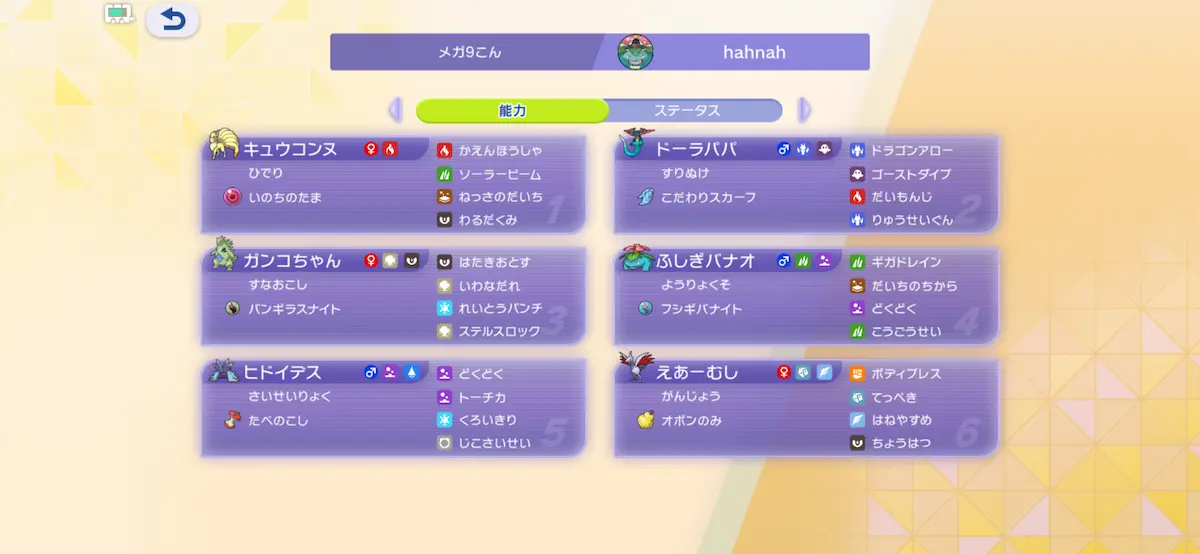
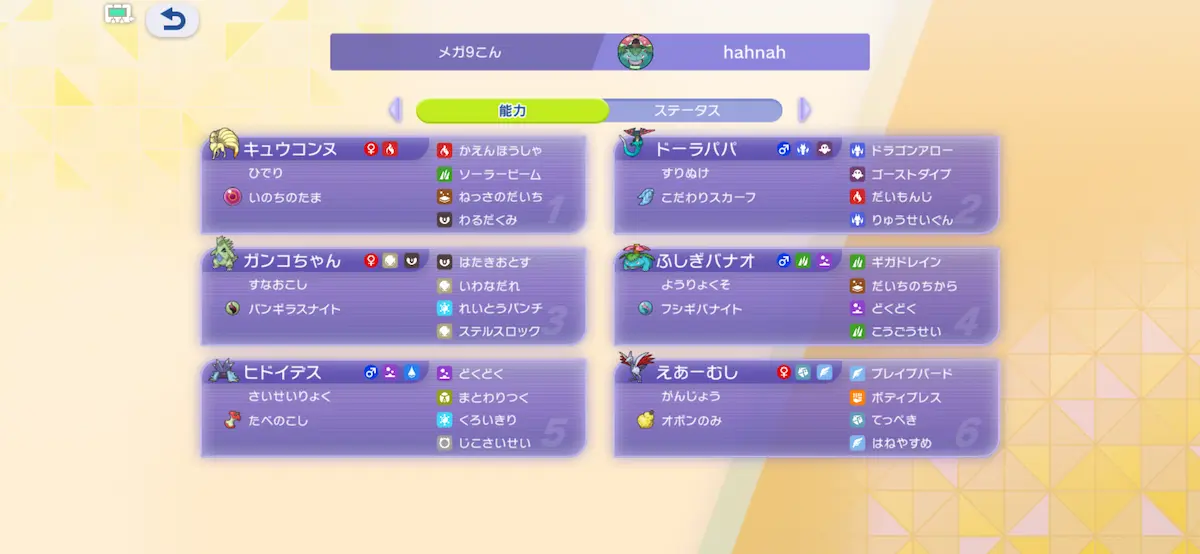
cont(life): Edit 2026-pokemon-ninetailes-party-mc

Changed region(s): [[0.7092, 0.6444, 0.8017, 0.8285], [0.3392, 0.7058, 0.4317, 0.7365]]

diff --git a/content/life-blog/2026-pokemon-ninetailes-party-mc.md b/content/life-blog/2026-pokemon-ninetailes-party-mc.md
@@ -3,7 +3,7 @@ title: "キュウコン+受けループ構築2〜ポケモンチャンピオン[
 image: "/images/life-blog/2026-pokemon-ninetailes-party-mc/party-info-1.webp"
 description: "自分の好きなポケモンと戦術で、勝てるように頑張る。キュウコンと受けループ戦術で勝つためのパーティ構築をしました。レギュレーションM-C(シーズンM-6, M-7, M-8)で使います。"
 published: "2026-09-11"
-updated: "2026-09-13"
+updated: "2026-09-23"
 category: "life"
 tags: ["game", "pokemon", "pokemon-champions"]
 ---
@@ -56,37 +56,6 @@ _(上記画像はhttps://pokemon.gameinfo.ioより)_
 
 それぞれを詳しく紹介していきます。
 
-### テンプレ選出
-
-- 受けループ選出: メガフシギバナ/メガバンギラス+ドヒドイデ+エアームド
-  - 刺さっている相手ならに安定して勝てます。出せるならなるべくこの選出にするのが安定です。メガ枠無しの場合もあります(キュウコン/ドラパルト選出)。
-- 自由選出: 自由に3匹
-  - このパーティは相手に押し付けられる強い並びがあるわけではなく、相手を対策するように選出するのが基本です。例え受けループ選出をするときでも、それは相手パーティを対策した結果そうなるだけです。
-- 対雨パ1: ドラパルト+キュウコン+メガフシギバナ
-  - 相手が典型的なペリッパー+メガラグラージ+ブリジュラス選出の時の対抗選出です。ペリッパーはニョロトノに置き換えてもここでの考察に違いはありません。こちらはドラパルトを先発します。相手はペリッパーで居座ってれいとうビームをするか、ブリジュラスに交換してきます。ドラパルトのりゅうせいぐんでどちらにでもダメージが入るようにします。相手ペリッパーが居座ってきたら2発目のりゅうせいぐんで倒しにかかりますが、その際ブリジュラスに交換されたら、オボンのみが発動しない範囲で程よくブリジュラスが削れます。その後キュウコンかフシギバナを受け出しすると、相手は次のターンにペリッパーへ交換するので、そこに合わせてドラパルト交換して再びドラパルトvsペリッパー対面を作ります。3発目のりゅうせいぐんが、ペリッパーを確定で倒すかブリジュラスを乱数(87.5%)で倒します。このように繰り返して、ペリッパーかブリジュラスのどちらか一方を落とせればこの勝負は勝ちで確定です。相手が1ターン目からブリジュラスに交換してきた場合は、りゅうせいぐん1発ダメージの後オボンのみで回復されますが、もう一度どこかのタイミングでCダウン無しりゅうせいぐんを当てれば倒せます。そのためにドラパルトvsペリッパー対面を作りにいきます。稀に相手の初手がブリジュラスの場合がありますが、その場合はキュウコンに交換します。すると相手はペリッパーに交換するので、そのタイミングに合わせてドラパルトに交換します。これでドラパルトvsペリッパー対面が作れたので、後の流れは前述と同じです。
-- 対雨パ2: ドラパルト+キュウコン+メガバンギラス
-  - 相手がペリッパー+メガグソクムシャ+ブリジュラスの場合は、雨パ1対策におけるメガフシギバナの役割をメガバンギラスが担う形での選出となります。メガグソクムシャ入り雨パは、基本的にグソクムシャを死に出しするはずで、つまり前述の雨パ1と同じ対応で良いです。もし初手メガグソクムシャを出されたら、賭けになりますがこちらの初手ドラパルトのだいもんじで倒す試みをします。もし相手にA特化ふいうちがあれば87.5%で負けますが、これが最善策です。ただし、上手い相手だと1ターン目は炎技を警戒してメガシンカしてこないことがあります。その場合は2ターン目も続けてだいもんじをするのが最善です。2ターン目に相手がメガシンカしてこなければ特性ききかいひ発動ラインまでダメージを確定で与えられ、メガシンカしてくるようなら確定で倒せます。
-- 対雪パ1: キュウコン
-  - 相手パーティにキュウコン(アローラ)/バイバニラ/ユキノオーがいる場合、高確率で選出して来ます。こちらは控えにキュウコンを選出して後から晴らすことで勝利に繋げます。殆どの場合、オーロラベールを不発にしたりふぶきを外させたり出来ます。
-- 対雪パ2: キュウコン+エアームド
-  - 相手にキュウコン(アローラ)/バイバニラ/ユキノオーに加えてメガセグレイブもいるケースは、先発自由枠枠+キュウコン+エアームドで安定します。
-- 対カバルドン1: エアームド
-  - カバルドンはほぼ先発で出てきます。こちらは先発エアームド、もしくは後述の先発メガフシギバナ+控えエアームドを選出でも良いです。エアームドのちょうはつでカバルドンを機能停止させると次のターン相手は交換してくるので、それに合わせてボディプレスを打つか控えに交換します。またカバルドンが出てきたら、おそらくステルスロックをおしてきますが、すかさずエアームををまた出します。その後またちょうはつをし、同じ流れで試合が有利に試合が運びます。
-- 対カバルドン2: メガフシギバナ+エアームド
-  - 相手の先発候補にエアームドで対処できないポケモンがいる場合、こちらはメガフシギバナを先発で出します。カバルドンは初手対面のメガフシギバナにはあくびをしてくる確率が高く、ギガドレインでダメージを与えておけば良いです。次のターンはエアームドに交代し、相手はステルスロックをしてくるはずです。その後エアームドのちょうはつでカバルドンのあくびを封じると、相手は控えのポケモンに交代してくので、このタイミングでこちらも交換して控えを対面させる、あるいはボディプレスすると強いです。有利な試合展開になります。もし相手が初手ステルスロックvsこちらギガドレインとなった場合は、次からのあくびループに対応するために2ターン目はどくどくを打ちます。
-- 対メガマフォクシー+アシレーヌ: メガバンギラス+フシギバナ(敢えてメガシンカせず)
-  - このパーティではメガバンギラスとドラパルトが相手メガマフォクシーに対面で勝てるのですが、相手選出にアシレーヌが加わるとどうしても不利なサイクル戦になります。相手のメガマフォクシー+アシレーヌ選出(残りはドドゲザン/イダイトウ/ガブリアス/カバルドンあたり)が想定される場合は、こちらはメガバンギラス+フシギバナを選出します。相手の3体目を倒せるかつ想定対面に繋げられるポケモンをこちらの3体目として選出し、例えばドドゲザンにはエアームド、イダイトウにはドラパルト、ガブリアスにはドラパルト、カバルドンにはエアームドと言った具合です。勝ち方としては、メガバンギラスをメガマフォクシーに後出しし、はたきおとす/いわなだれで相手交換先(アシレーヌ/カバルドン)にダメージを蓄積していきます。そしたらこちらはフシギバナを後出しして、その後相手がメガマフォクシーを後出しして、と言うサイクル戦になります。
-- 対メガボーマンダ+カバガルン+ギルガルド/サーフゴー: キュウコン+メガバンギラス+フシギバナ
-  - 全体的に有利です。カバルドンに強く出るためにフシギバナを選出します。フシギバナはメガシンカしなくとも結構強いです。フシギバナの枠はエアームドでも良さそうに見えますが、エアームドだと初手カバルドン対面で良いダメージを与えることができないことが起因して安全な展開にならないのと、ギルガルド/サーフゴーに打点がないことから、フシギバナを選出した方が良いです。フシギバナを先発にすることで、相手の先発が何であっても対応できます。典型的なゲーム展開としては、1ターン目フシギバナvsカバルドン対面でギガドレインvsあくびとなり、2ターン目はキュウコン交換vsステルスロック、3ターン目はソーラービームvsボーマンダ交換、4ターン目はバンギラス交換vsりゅうのまい、5ターン目にれいとうビームvsじしんで、ここでメガボーマンダを倒します。後は流れるように勝てます。もし相手メガボーマンダが特殊型や両刀型の場合はこちらのメガバンギラスへの有効打が無いので相手はカバルドンに交換してきます。これはバンギラス交換時に放つ相手の技で判別できます。サイクル戦に備えて、こちらはステルスロックを撒きます。
-- 対メガアブソルZ: メガフシギバナ + キュウコン/ドラパルト/バンギラスから2匹
-  - このパーティにとってメガアブソルZは非常に重く、メガフシギバナの対面状況でしか突破ができないので攻略難易度がかなり高いです。相手視点ではエアームドだけが脅威に映りますが、実際にはエアームドからはダメージを与える方法がないです。先発メガフシギバナを出し、控えのポケモンにはメガアブソルにつるぎのまいをする猶予を与えない、キュウコン/ドラパルト/バンギラスから2匹を選出することになります。ちなみにバンギラスはAにあまり振っていないのでつるぎのまいの猶予を与えてしまうのですが、相手視点ではA特化に映るので実質的に猶予を与えないです。先発でメガフシギバナvsメガアブソルZ対面を作れればいいですが、相手の先発が別のポケモンの場合はメガフシギバナの体力を温存するために控えのポケモンと交換します。その後死に出しでメガフシギバナvsメガアブソル対面を作って攻略します。
-- 対コノヨザル: キュウコン/ドラパルト/メガフシギバナの中から2匹以上
-  - このパーティにとってコノヨザルは非常に重く、相手が理想的に動いてきた場合に対面で勝てるポケモンがいません。ダメージをまともに与えられるキュウコン+ドラパルト+メガフシギバナの選出が勝ち筋が最もあり、選出は縛られますがなるべくこの3匹で戦います。相手コノヨザルがラストから2匹目の場合はフシギバナ対面でふんどのこぶし(威力100)vsギガドレイン(回復も考慮)で雑に計算したところ高乱数で打ち勝てます。ラスト1匹として出てくる場合は素早さで勝るキュウコン/ドラパルトで対面するのが良いので、この対面を意識して立ち回ります。
-- 対ソウブレイズ: メガバギラス必須、優先的にドラパルト/キュウコン
-  - 初手出しをメガバンギラスにし、まず初手対面での勝ち筋を狙います。相手ソウブレイズが控えだとして、天候すなあらし状態がきあいのたすきを剥がしてくれるので、そうなればドラパルトのゴースドダイブで確定1発を狙えるようになります。対面でソウブレイズにしっかりダメージを与えられるポケモンを選出して崩しにかかります。
-- 対メガピクシー: キュウコン + 保険としてドヒドイデ/(メガ)フシギバナから1匹or(メガ)バンギラス
-  - 警戒すべきアシストパワー型メガピクシー相手には、控えにキュウコンを選出しておいて、相手のピクシーが出たらすかさずキュウコンへ交換します。こちらはわるだくみを、相手はコスモパワーを積むレースになりますが、積みレベルが勝った時点で攻撃に転じれば倒せます。対面ならば1回、後出しならば2回わるだくみを積めば良いです。このパーティではキュウコンでしか突破できないので大仕事です。相手がでんじはを使ってきたらバトンタッチ型の可能性が高く、キュウコンの火力に加えて、控えポケモンのどくどくでトドメを刺せるようにしておきたいです。バトンタッチ先がエスパータイプでアシストパワーを使うポケモンの場合、(メガ)バンギラスの選出も視野に入ります。
-
 ## 6匹の役割
 
 ### キュウコン
@@ -94,11 +63,11 @@ _(上記画像はhttps://pokemon.gameinfo.ioより)_
 - 役割概要: メガピクシー/鋼タイプ絶対倒すマン。また初手出しの有力候補とすべく、初手に来やすい相手に強く出れるアタッカー枠にしました。このパーティの愛おしい主役。
 - 持ち物: いのちのたま
 - 特性: ひでり
-- 性格: おくびょう(A↓, S↑)
+- 性格: おくびょう(a↓, s↑)
 - 能力ポイントと調整意図:
-  - H1: いのちのたまのダメージ最小化(10n-1)
-  - C32: ぶっぱ
-  - D1: 余り
+  - h1: いのちのたまのダメージ最小化(10n-1)
+  - c32: ぶっぱ
+  - d1: 余り
   - S32: ぶっぱ
 - 技と採用意図:
   - かえんほうしゃ: タイプ一致メインウェポンとして採用しました。ウェザーボールだとメガピクシーにつきのひかりでターン稼ぎされた場合ににほんばれが解除されて倒せなくなってしまうので、ウェザーボールではなくかえんほうしゃの採用です。キュウコンには命中安定技で確実に役割遂行して欲しかったので、だいもんじも採用しませんでした。
@@ -121,6 +90,7 @@ _(上記画像はhttps://pokemon.gameinfo.ioより)_
   - アーマーガア: H32,D2の相手に対し、先攻でにほんばれ下かえんほうしゃして確定1発で勝てます。
   - エアームド: H32,D2の相手に対し、先攻でにほんばれ下かえんほうしゃして確定1発で勝てますが、相手は特性がんじょうなので実質確定2発です。相手の攻撃はA特化ドリルライナーであっても確定2発なので受け出し可能です。
   - ドドゲザン: H32振りの相手に対し、にほんばれ下かえんほうしゃで確定1発で、相手からはくろいメガネ持ちA特化ふいうちであっても確定2発です。相手がきあいのたすき持ちでない限り対面で勝て、きあいのたすき持ちは20%程度です。
+  - カバルドン: メガフシギバナと同時選出した場合、メガフシギバナで1発ギガドレインをした後にキュウコンでソーラービーム/かえんほうしゃしてカバルドンにとどめを刺すのがありがちなパターンです。H32,D23振りまでの食べ残し持ちカバルドンに対し、通常フシギバナのギガドレイン+キュウコンのソーラービームで確定で倒せるので、ほぼ全てのカバルドンを倒せます。H32,D2振りたべのこし持ちカバルドンに対しては、通常フシギバナのギガドレイン+キュウコンのかえんほうしゃでも確定で倒せます。これがオボンの実持ちだと、かえんほうしゃで倒せる確率は77.7%なのでソーラービームを打つか、フシギバナをメガシンカさせると倒せます。基本を通常フシギバナで考えているのは、その選出をすることが割とあるからです。
 
 ### ドラパルト
 
@@ -130,8 +100,8 @@ _(上記画像はhttps://pokemon.gameinfo.ioより)_
 - 性格: やんちゃ(A↑, D↓)
 - 能力ポイントと調整意図:
   - A27: H2振りガブリアスをドラゴンアローで乱数1発(87.5%)。
-  - C28: 余りだけれどもなるべく多めにして、だいもんじで倒せる範囲を広めにしました。
-  - S11: 持ち物のこだわりスカーフ込みで、素早さ1段階上昇準速メガボーマンダ抜きです。
+  - C27: 余りだけれどもなるべく多めに振り、だいもんじで倒せる範囲を広めにしました。H32振りメガグソクムシャを乱数1発(75.0%)の調整になっています。
+  - S12: 持ち物のこだわりスカーフ込みで、素早さ2段階上昇(からをやぶる使用後)準速メガカメックス抜き調整です。また、素早さ1段階上昇準速メガボーマンダ+3です。
 - 技と採用意図:
   - ドラゴンアロー: タイプ一致のメインウェポンとして採用です。きあいのたすき持ちのドラゴンタイプポケモンを倒したい理由から2連攻撃技であるドラゴンアローにしました。
   - ゴーストダイブ: メガマフォクシー、メガスターミー、メガゲンガー、イダイトウへの対策技として採用しました。タイプ一致メインウェポンです。
@@ -149,14 +119,14 @@ _(上記画像はhttps://pokemon.gameinfo.ioより)_
   - メガスターミー: H17振りまでのメガスターミーであれば、先攻ゴーストダイブして確定1発で倒せます。
   - メガドラミドロ: H32振りメガドラミドロに対し、先攻でドラゴンアローが乱数1発(93.8%)です。このパーティではメガドラミドロを倒せるのはドラパルトとメガバンギラスだけなので、慎重に立ち回る必要があります。
   - メガボーマンダ: H32振りメガボーマンダに対してりゅうせいぐんが乱数1発(81.3%)です。りゅうのまいを事前にされていても、準速までの相手ならこちらのこだわりスカーフにより先制攻撃できます。A32振りの相手からはげきりん/ドラゴンクロー/すてみタックルで確定1発です。
-  - メガグソクムシャ: H32振りメガグソクムシャに対してだいもんじが乱数1発(87.5%)です。相手からのA特化ふいうちが乱数1発(87.5%)なので、相手にふいうちがなければ勝てますが、あると負けます。
+  - メガグソクムシャ: H32振りメガグソクムシャに対してだいもんじが乱数1発(75.0%)です。相手からのA特化ふいうちが乱数1発(87.5%)なので、相手にふいうちがなければ勝てますが、あると負けます。
   - メガガブリアスZ: H21振りまでの相手が先攻ドラゴンアローで確定1発で倒せます。
   - ガブリアス: 初手に出てきやすい相手です。Hに厚く振っていないガブリアス(AS振りなど)なら、先攻でドラゴンアローして確定1発または高い確率で倒せます。H振りのガブリアスの場合はこちららからは乱数2発、相手からは確定2発ですが、スケイルショットで素早さを上げられたとしてもこちらの方が速いので確実に対面勝ちできます。HB特化オボンのみ持ちガブリアスの場合は確定3発となり、2発まで耐えられてしまいます。HB特化ガブリアスの場合はおそらくステルスロック→まきびしをしてくるならそのままドラパルトで倒せ、ステルスロック→ドラゴンテールとしてきたなら、ドラゴンアロー2回で相手の体力わずかにし、こちらはドラゴンテールを1発耐えて(ステルスロック+まきびしも約70%耐える)、交換させられた後続がなんとかしてくれるでしょう。もし相手をきあいのたすき持ちでなく耐久振りと判断したのなら、りゅうせいぐんで乱数1発(81.3%)で倒せるので、それも選択肢ですが、基本的にはドラゴンアローの方がリスクが低いです。初手ガブリアス対面は有利な展開になることが多いので、出てきそうなら積極的にドラパルトを初手出しします。状況によってはドラパルト受け出しから勝つこともできます。
   - サザンドラ: ハバンのみ持ち以外の全ての型なら先攻ドラゴンアローで確定1発で倒せます。ハバンのみがあってもHにかなり振ってないと高確率の乱数1発で倒せます。負けたことはないです。ただし相手ガブリアスと違ってドラパルトを受け出しすることはできないので注意。
   - イダイトウ: 先攻ゴーストダイブでH23振りまでの相手が確定1発です。相手のこだわりスカーフを恐れる必要はありません。
   - ウルガモス: 対面を作れれば、相手がちょうのまいをしてくるのに対し、こちらはこだわりスカーフがあるので、ドラゴンアローを2発お見舞いして確定2発で倒せる上に被弾無しです。相手がオボンのみ持ちであっても変わりません。相手ちょうのまいに合わせて受け出しからでも勝てます。相手ほのおのまいに合わせて受け出しすると、もし続けてサイコキネシスをされた場合に高乱数2発(99.6%)を取られるので負け筋があります。サイコキネシスの採用率は15%程度です。
   - ペリッパー: 雨パと遭遇すると高確率で初手出しされるのがペリッパーです。H32振りの相手に対しりゅうせいぐんで減衰込み確定2発、あちらからはC特化れいとうビームで確定2発です。交換される可能性が結構あるので交換先ブリジュラスにも有効なりゅうせいぐんを打ちます。交換されないのならドラゴンアローが命中安定で確定2発です。
-  - ブリジュラス: ドラパルトに対し受け出ししてくることが多く、そこにりゅうせいぐんを打ち、サイクル戦の中で倒します。H32振りの相手に対して64.5％～76.6％のダメージが入るので、交換でCダウンをリセットして確定2発です。Cダウン込みだと乱数3発(83.0%)です。相手からのC特化りゅうせいぐんは確定1発です。対面ではやり合いません。
+  - ブリジュラス: ドラパルトに対し受け出ししてくることが多く、そこにりゅうせいぐんを打ち、サイクル戦の中で倒します。H32振りの相手に対して64.5％～76.1％のダメージが入るので、交換でCダウンをリセットして確定2発です。Cダウン込みだと乱数2発(92.2%)で、目安としては1発目の後相手のHPが30%以下なら2発目を続けて打ってもいいでしょう。相手からのC特化りゅうせいぐんは確定1発です。対面ではやり合いません。
   - アーマーガア: H32,D2振りの相手に対しだいもんじで確定2発です。
   - エアームド: H32,D2振りの相手に対しだいもんじで確定2発です。このパーティ相手に鋼ポケモンは出されやすいので、対策としてだいもんじを採用しています。
   - キュウコン(アローラ): 初手に出てきやすい相手です。キュウコン自体にはほぼ勝てませんが、特性すりぬけでオーロラベールを無視できるので他の相手ポケモンに対して不利にならずに戦えます。こちらからのだいもんじがH32振りの相手に確定2発で、相手からはC無振りふぶきが乱数1発(43.8%)です。キュウコンはC無振りなことが多いとはいえ安定しないのでドラパルトで相手をすることはないです。
@@ -173,8 +143,8 @@ _(上記画像はhttps://pokemon.gameinfo.ioより)_
   - B13: A特化ギルガルドのせいなるつるぎを低乱数1発(18.8%)に抑え、またA特化ソウブレイズから受けるインファイトを中乱数1発(56.3%)に抑えるための調整です。
 - 技と採用意図
   - はたきおとす: タイプ一致命中安定のメインウェポンです。パーティが苦手なエスパー/ゴーストタイプのポケモンへの有効打です。
-  - いわなだれ: タイプ一致技です。ストーンエッジの方が威力は高いですが命中率に不安があり、かつ役割対象にはほぼいわなだれで事足りるのでこちらの採用としました。
-  - れいとうパンチ: メガボーマンダ対策として採用しました。始めは、いかくでAを下げられても問題なく倒せるようにれいとうパンチではなくれいとうビームの採用を考えましたが、ボーマンダに対してほぼ受け出しするのでいかくを受けることはありませんでした。よってれいとうビームではなくれいとうパンチにしました。
+  - いわなだれ: タイプ一致技です。ストーンエッジの方が威力は高いですが命中率に不安があり、かつ役割対象にはいわなだれで事足りるのでこちらの採用としました。
+  - れいとうパンチ: メガボーマンダ/メガカイリュー対策として採用しました。始めは、いかくでAを下げられても問題なく倒せるようにれいとうパンチではなくれいとうビームの採用を考えましたが、ボーマンダに対してほぼ受け出しするのでいかくを受けることはありませんでした。よってれいとうビームではなくれいとうパンチにしました。
   - ステルスロック: サイクル戦になる場合のダメージリソースとしての採用で、受けループ選出と相性が良いです。
 - 役割対象:
   - メガマフォクシー: メガバンギラスだけが安定して処理できるので攻略の要になります。例え相手がH32振りであっても、はたきおとすで確定1発で倒せます。C特化の相手のマジカルシャインがこちらに確定3発なので受け出しからでも倒せます。
@@ -205,7 +175,7 @@ _(上記画像はhttps://pokemon.gameinfo.ioより)_
   - D1: C32振りメガゲンガーからのヘドロウェーブを低乱数2発(35.2%)調整
   - S8: S無振りウォッシュロトム/キラフロル超え
 - 技と採用意図:
-  - ギガドレイン: タイプ一致のメインウェポンです。カバルドンや水タイプポケモンの対策であり、雨パのラグラージを止めるためにも採用しています。
+  - ギガドレイン: タイプ一致のメインウェポンです。カバルドンやアシレーヌの対策であり、雨パのラグラージを止めるためにも採用しています。
   - だいちのちから: メガフシギバナは初手出しすることが多いので、初手出し対面相手となりやすいキラフロル/メガキラフロル/ブリジュラスへの対抗策です。受けループ枠ポケモンが苦手なメガゲンガーやギルガルド、エンニュートへの打点としても採用してます。
   - どくどく: 受けループ枠として必須です。やどりぎのたねとの選択になりますが、命中率90%では不安定で実際に技外しが敗北に繋がることが多く、どくどくを採用しました。やどりぎのたねならばドヒドイデのどくどくと合わせて対応範囲が広がりますが、それよりも安定性を重視しました。対応範囲は選出でカバー出来ます。
   - こうごうせい: 受けループ枠として必須です。
@@ -237,47 +207,50 @@ _(上記画像はhttps://pokemon.gameinfo.ioより)_
   - D32: ぶっぱ
 - 技と採用意図:
   - どくどく: 受けループ枠として必須です。
-  - トーチカ: たべのこしやどくどくと相性が良いので採用です。
+  - まとわりつく: 鋼タイプポケモンを相手する時の打点として採用です。また、どくどくのダメージリセットを防ぐこともできます。
   - くろいきり: こちらの受けループを、相手はつるぎのまいやわるだくみで突破しようとしてくることが多々あります。その場合の対抗策です。ドヒドイデは一応特殊受け調整していますが、半端な物理アタッカーなら受けられるので、つるぎのまいにも対応出来ることが多いです。
   - じこさいせい: 受けループ枠として必須です。
 - 役割対象:
   - 一致抜群を取られない特殊アタッカー全般(毒/鋼タイプのポケモンを除く)
-  - メガカイリュー: どくどくして勝ちです。受け出しできます。 メガリザードンX: 積み技をされたらくろいきりでリセットし、その後どくどくをします。受け出し出来ます。
+  - メガルカリオZ: 相手からの有効打はなく、わるだくみをしてくるか交換で退いてきます。こちらはまとわりつくで定数ダメージを与えつつ、くろいきりで積み技をリセットして勝ちます。
+  - メガカイリュー: どくどくして勝ちです。受け出しできます。C特化メガカイリューのエアスラッシュに受け出しして、その後10まんボルトを2発耐えられます。こちらは受け出し→どくどく/まとわりつく→じこさいせい、とすれば良いです。
+  - メガリザードンX: 積み技をされたらくろいきりでリセットし、その後どくどくをします。受け出し出来ます。
   - メガリザードンY: どくどくして勝ちです。受け出しできます。
   - メガフラエッテ: どくどくして勝ちです。受け出しできます。めいそうされてもくろいきりでリセットできるので問題ないです。
   - メガスコヴィラン: どくどくして勝ちです。受け出しできます。
   - メガメガニウム: みがわりを持っていなければどくどくして勝ちです。受け出しできます。
   - アシレーヌ: どくどくして勝ちです。受け出し出来ます。
-  - ブラッキー: どくどくして勝ちです。受け出しできます。相手の裏に他の回復持ちポケモン/どくどく無効化ポケモンがいる場合は引き分けになりがちです。
+  - ブラッキー: どくどくして勝ちです。受け出しできます。
   - ニンフィア: どくどくして勝ちです。受け出しできます。
   - ラウドボーン: どくどくでダメージを与えつつ、フレアソングのC上昇をくろいきりでリセットして勝ちます。受け出しできます。
   - ミミッキュ: どくどくでダメージを与えつつ、つるぎのまいのA上昇をくろいきりでリセットして勝ちます。受け出しできます。相手がスカーフトリック型の場合は取り敢えずどくどくしてから時間を稼げば倒せはします。
+  - エンペルト: まとわりつくして勝ちです。相手からの有効打はなく、せいぜいあくびをしてくるくらいですが問題になりません。
 
 ### エアームド
 
-- 役割概要: 受けループの物理受け担当。ちょうはつで相手の変化技を封じ、はねやすめでどくどく/やどりぎのたねのコンボに参加します。てっぺき+ボディプレスは詰ませ性能が高いです。このパーティの英雄的主役。
+- 役割概要: 受けループの物理受け担当。はねやすめでどくどくのコンボに参加します。てっぺき+ボディプレスは詰ませ性能が高いです。このパーティの英雄的主役。
 - 持ち物: オボンのみ
 - 特性: がんじょう
-- 性格: ずぶとい(A↓, B↑)
+- 性格: わんぱく(B↑,C↓)
 - 能力ポイント調整意図:
   - H32: ぶっぱ
   - B32: ぶっぱ
-  - S2: 余り、かつS無振りメガバンギラス抜き調整
+  - S2: 余り、かつS無振りメガバンギラス抜き調整です
 - 技と採用意図:
+  - ブレイブバード: かるわざシード型オオニューラへの対策として採用しました。相手のシードがD上昇のもの(サイコシード/ミストシード)なら、ブレイブバードでH2振りオオニューラを確定1発で倒せます。
   - ボディプレス: てっぺきと合わせて使うことで、物理技を受けながら多くの相手を倒すことが出来るので採用しました。ゴーストタイプへの打点が無くなるので、そこは他のポケモンで補うことになります。
   - てっぺき: 物理受け性能を上げて詰ませてり、ボディプレスで高火力を出すために採用しました。
   - はねやすめ: 受けループ枠として必須です。
-  - ちょうはつ: パーティとして苦手なカバルドンへの対策として採用しました。環境に増えつつある強ポケモンブラッキーを完封することも出来ます。
 - 役割対象:
   - 一致抜群を取られない物理アタッカー全般(ゴーストタイプのポケモンを除く)
-  - ガブリアス: てっぺき+ボディプレスで勝ちです。受け出しできます。
+  - ガブリアス: てっぺき+ボディプレスで勝ちです。受け出しできます。ただしドラゴンテール採用のガブリアスやメガガブリアスZには対応できないので見極めは必要です。
   - マスカーニャ: てっぺき+ボディプレスで勝ちです。受け出しできます。
-  - カバルドン: 一番の仮想敵です。ちょうはつしてステルスロックやあくびを封じます。すると相手は控えのポケモンに交換していきます。相手の交換先を読みつつ、こちらの有用な控えポケモンに交換する動きが強いです。エアームドに強く出れるポケモンは限られているので、相手の交換先はかなり読みやすいです。最後にエアームドvsカバルドン対面になったら、ちょうはつしつつ、てっぺき+ボディプレスして勝ちです。相手がカバルドン先発濃厚の時だけ、こちらはエアームドを先発で出します。後だしできますが、あくびループからは抜けれないのでどくどく/やどりぎのたねを浴びせている必要があります。
-  - ギャラドス: てっぺき+ボディプレスで勝ちです。ただし、相手がちょうはつ持ちの場合はボディプレスしか出来ず太刀打ち不可なので、控えと入れ替わります。
+  - ギャラドス: てっぺき+ボディプレスで勝ちです。ただし、相手がちょうはつ持ちの場合はボディプレスで太刀打ち不可なので、ブレイブバードで削るか控えと入れ替わります。
   - メガギャラドス: てっぺき→てっぺき→はねやすめ→ボディプレスで確定1発です。相手にちょうはつされた場合でも、ボディプレス確定3発で問題なく勝てます。
   - メガメタグロス: てっぺきとはねやすめをしながら、最後にボディプレス連打で勝ちです。後だしできます。
-  - イダイトウ: 相手にどくどく/やどりぎのたねが入っている場合は、エアームドのてっぺき+はねやすめで受け切って勝ちです。
-  - メガセグレイブ: H32,B2の相手に対してこちらのボディプレスが乱数2発(80.1%)です。ゆき下では乱数3発(0.1%)なので、ゆきならてっぺきを1積みしてから確定2発で倒します。A特化の相手つららおとしが乱数4発(0.2%)なので受け出しからでも倒せます。
+  - イダイトウ: 事前にてっぺきを積めていれば、受けつつブレイブバードして勝ちです。
+  - メガセグレイブ: H31,B2の相手に対してこちらのボディプレスが乱数2発(80.1%)です。ゆき下では乱数3発(0.1%)なので、ゆきならてっぺきを1積みしてから確定2発で倒します。A特化の相手つららおとしが乱数4発(0.2%)なので受け出しからでも倒せます。
+  - セグレイブ: ボディプレスで確定2発です。向こうからの有効打はないので楽に勝てます。
   - ハッサム: てっぺき+ボディプレスで勝ちです。受け出しできます。
   - メガハッサム: てっぺき+ボディプレスで勝ちです。受け出しできます。
   - ドドゲザン: ボディプレス連打でも確定2発で勝てますが、ドゲザン→ふいうち されるとかなりダメージを受けるので、てっぺき→ボディプレスで確定1発で倒して被ダメージを抑えます。
@@ -291,10 +264,63 @@ _(上記画像はhttps://pokemon.gameinfo.ioより)_
   - メガバンギラス: てっぺき+ボディプレスで勝ちです。 受け出しできます。
   - メガガルーラ: てっぺき+ボディプレスで勝ちです。受け出しできます。
   - カビゴン: てっぺき+ボディプレスで勝ちです。受け出しできます。相手のうちおとす→じわれコンボはこちらの特性がんじょうにより効きません。
+  - ミミッキュ: てっぺきで磐石にしてからブレイブバードでダメージを与えていけば勝てます。
+  - オオニューラ: 防御上昇シードが発動していなければ、H2振りの相手にブレイブバードで確定1発で倒せます。防御上昇しているなら鉄壁でインファイトを誘ってからブレイブバードすると確定1発を取れます。
+  - メガアブソルZ: ブレイブバードで確定2発ですが、相手からはA特化シャドークローで乱数2発(45.3%)なので鉄壁を積みながらの戦いになります。急所に当たると負けるので保険をかけるて他のポケモンと合わせて対処するのが良いです。
+  - コノヨザル: H32振りの相手に対し、ブレイブバードで確定2発です。ビルドアップを1回積まれていると乱数2発(2.0%)になるので実質3回攻撃が必要です。相手からは威力150ふんどのこぶしが確定2発で、エアームドのオボンのみ込みだと乱数2発(1.2%)なので、てっぺきで守りを硬めながら攻略することになります。エアームドの体力があまり削れていない状況で対面することが重要です。
 
 ## 苦手なポケモン
 
-- メガアブソルZ: 相手の技構成として最も多いのは、シャドークロー、ふいうち、インファイト、つるぎのまい、ですが、これでかつA特化とすると、勝つ方法はメガフシギバナで対面の状況(つるぎのまいもされていない)を作り出すしかないです。メガフシギバナを事前に消耗せず、上手く対面状況を作り出す必要があり攻略難易度が高いです。
-- コノヨザル: 選出されやすく、また多くの場合2匹がかりで倒す羽目になります。ちょうはつしてくるのでドヒドイデが無力で、ゴーストタイプなのでエアームドも無力です。メガバンギラスも対面で負けます(相手が先攻でA特化ドレインパンチが乱数1発(6.3%)に対し、こちらのはたきおとす(2回目は威力減少)+砂ダメがH32,B2振り相手に対し確定2発です)。メガフシギバナからはギガドレインで確定4発で、先攻の相手の威力100想定ふんどのこぶしが乱数3発(99.7%)でギガドレインの回復を考慮すると乱数4発(おそらく中~低乱数)で、対面で勝てる可能性があります。威力150想定ふんどのこぶしが乱数2発(98.4%)で、ギガドレインの回復考慮で確定3発、対面負けです。ドラパルトも打ち負けます(ゴーストダイブが乱数1発(6.3%)に対し相手ふんどのこぶし(威力100想定)が確定1発でこちらのりゅうせいぐんだと45.6％～53.9％のダメージです)。キュウコンのにほんばれ下かえんほうしゃは確定2発ですが相手の威力100想定ふんどのこぶしで確定2発、威力150想定で確定1発です。相手コノヨザルがラスト1匹として出たきた場合は対面で勝つ方法がありません。2匹目で出てきた場合はキュウコンが対面で勝てますが、相手がドレインパンチ→ふんどのこぶしとしてきた場合は、回復されてこちらのかえんほうしゃが乱数2発になってしまいます。結論として、コノヨザルを倒すためだけにキュウコン+ドラパルト+メガフシギバナから2匹以上の選出が確定し、突破に2匹要するのでかなり不利です。相手コノヨザルががラスト1匹でない場合はフシギバナで相手をし、ラスト1匹の場合は素早さで勝るキュウコン/ドラパルトで相手をするのが基本になります。
-- ソウブレイズ: 選出されやすく、また多くの場合2匹がかりで倒す羽目になります。メガフシギバナ/ドヒドイデ/エアームドは一方的にやられます。キュウコン/ドラパルトは1度だけ攻撃のチャンスがあります。メガバンギラスは唯一単独撃破が可能ですが、相手の型と乱数次第では何も出来ずに倒される可能性があります。基本的には、メガバンギラスが対面で勝つ可能性にかけて立ち回ることになります。もしくは相手がきあいがたすき持ちでないならば、ドラパルトのゴーストダイブで一方的に倒せますが、ゴーストダイブが決まる状況を作り出すのが難しいです。
-- メガピクシー: アシストパワー型のメガピクシーに対しては、キュウコンがわるだくみすることで勝てます。しかし他の方法では止められないので、キュウコンを事前に消耗しないことが大切です。攻略難易度は低めです。
+- イエッサン+メガカメックス: メガカメックスがからをやぶるをしてくれればドラパルトでメガカメックスを単独撃破できるのですが、そうでなければ倒すのが困難です。
+- メガアブソルZ: 相手の技構成として最も多いのは、シャドークロー、ふいうち、インファイト、つるぎのまい、ですが、これでかつA特化とすると、勝つ方法はメガフシギバナで対面の状況(つるぎのまいもされていない)を作り出すしかないです。メガフシギバナを事前に消耗せず、上手く対面状況を作り出す必要があり攻略難易度が高いです。また、エアームドは対等かやや振り程度に渡り合うことができるので、この2匹で立ち向かうことになります。
+- コノヨザル: 選出されやすく、また多くの場合2匹がかりで倒す羽目になります。メガフシギバナからはギガドレインで確定4発で、先攻の相手の威力100想定ふんどのこぶしが乱数3発(99.7%)でギガドレインの回復を考慮すると乱数4発(おそらく中~低乱数)で、対面で勝てる可能性があります。威力150想定ふんどのこぶしだとエアームドが対面で勝てます。ただし、ビルドアップを積まれている可能性なども考慮するなら、素早さで勝るドラパルト/キュウコンも選出したいところです。
+- ソウブレイズ: 選出されやすく、また多くの場合2匹がかりで倒す羽目になります。メガフシギバナ/ドヒドイデ/エアームドは一方的にやられます。キュウコン/ドラパルトは1度だけ攻撃のチャンスがあります。メガバンギラスは唯一単独撃破が可能ですが、相手の型と乱数次第では何も出来ずに倒される可能性があります。基本的には、メガバンギラスが対面で勝つ可能性にかけて立ち回ることになります。もしくは相手がきあいがたすき持ちでないならば、ドラパルトのゴーストダイブで一方的に倒せますが、ゴーストダイブが決まる状況を作り出すのが難しいです。取り敢えず先発バンギラスですなあらしにするのが大切です。
+
+## 選出
+
+選出においては以下のことを意識しています:
+
+- 相手の初手が何であっても、こちらの初手か交換で対応できること
+- 脅威となるポケモン・組み合わせへの回答を用意すること
+- 脅威となる立ち回り(積み技など)の抑止力となる選出・先発決めをすること
+- 受けループ選出で対応できるならそうすること(安定して勝てるので)
+- メガシンカ枠に囚われず、勝つために必要なポケモンを選出すること
+
+### テンプレ選出
+
+- 受けループ選出: メガフシギバナ/メガバンギラス+ドヒドイデ+エアームド
+  - 刺さっている相手ならに安定して勝てます。出せるならなるべくこの選出にするのが安定です。メガシンカ枠無しの場合もあります(キュウコン/ドラパルト選出)。
+- 自由選出: 自由に3匹
+  - このパーティは相手に押し付けられる強い並びがあるわけではなく、相手を対策するように選出するのが基本です。例え受けループ選出をするときでも、それは相手パーティを対策した結果そうなるだけです。
+- 対雨パ1: ドラパルト+キュウコン+メガフシギバナ
+  - 相手が典型的なペリッパー+メガラグラージ+ブリジュラス選出の時の対抗選出です。ペリッパーはニョロトノに置き換えてもここでの考察に違いはありません。こちらはドラパルトを先発します。相手はペリッパーで居座ってれいとうビームをするか、ブリジュラスに交換してきます。ドラパルトのりゅうせいぐんでどちらにでもダメージが入るようにします。相手ペリッパーが居座ってきたら2発目のりゅうせいぐんで倒しにかかりますが、その際ブリジュラスに交換されたら、オボンのみが発動しない範囲で程よくブリジュラスが削れます。その後キュウコンかフシギバナを受け出しすると、相手は次のターンにペリッパーへ交換するので、そこに合わせてドラパルト交換して再びドラパルトvsペリッパー対面を作ります。3発目のりゅうせいぐんが、ペリッパーを確定で倒すかブリジュラスを乱数(87.5%)で倒します。このように繰り返して、ペリッパーかブリジュラスのどちらか一方を落とせればこの勝負は勝ちで確定です。相手が1ターン目からブリジュラスに交換してきた場合は、りゅうせいぐん1発ダメージの後オボンのみで回復されますが、もう一度どこかのタイミングでCダウン無しりゅうせいぐんを当てれば倒せます。そのためにドラパルトvsペリッパー対面を作りにいきます。稀に相手の初手がブリジュラスの場合がありますが、その場合はキュウコンに交換します。すると相手はペリッパーに交換するので、そのタイミングに合わせてドラパルトに交換します。これでドラパルトvsペリッパー対面が作れたので、後の流れは前述と同じです。
+- 対雨パ2: ドラパルト+キュウコン+エアームド/メガバンギラス
+  - 相手がペリッパー+メガグソクムシャ+ブリジュラスの場合は、雨パ1対策におけるメガフシギバナの役割をエアームドが担う形での選出が基本となります。対特殊のサイクル戦に強くするならメガバンギラスでも良いです。メガグソクムシャ入り雨パは、基本的にグソクムシャを死に出しするはずで、つまり前述の雨パ1と同じ対応で良いです。もし初手メガグソクムシャを出されたら、賭けになりますがこちらの初手ドラパルトのだいもんじで倒す試みをします。もし相手にA特化ふいうちがあれば87.5%で負けますが、これが最善策です。ただし、上手い相手だと1ターン目は炎技を警戒してメガシンカしてこないことがあります。その場合は2ターン目も続けてだいもんじをするのが最善です。2ターン目に相手がメガシンカしてこなければ特性ききかいひ発動ラインまでダメージを確定で与えられ、メガシンカしてくるようなら確定で倒せます。
+- 対雪パ1: キュウコン
+  - 相手パーティにキュウコン(アローラ)/バイバニラ/ユキノオーがいる場合、高確率で選出して来ます。こちらは控えにキュウコンを選出して後から晴らすことで勝利に繋げます。殆どの場合、オーロラベールを不発にしたりふぶきを外させたり出来ます。
+- 対雪パ2: キュウコン+エアームド
+  - 相手にキュウコン(アローラ)/バイバニラ/ユキノオーに加えてメガセグレイブもいるケースは、先発自由枠枠+キュウコン+エアームドで安定します。
+- 対カバルドン1: (メガ)フシギバナ
+  - カバルドンはほぼ先発で出てきます。こちらはフシギバナを先発にします。相手がまだステルスロックを撒いていないならギガドレインで大ダメージを与え、ステルスロックを撒かれているならあくびループを防ぐためにどくどくをします。他の役割対象がいないと判明したなら眠ってしまっても良いので、カバルドンをギガドレインで倒しに行きます。メガシンカしなくてもカバルドンへの役割遂行できます。
+- 対カバルドン2: (メガ)フシギバナ+キュウコン
+  - 相手の控えにキュウコンの役割対象が想定される場合、キュウコンを合わせて選出するとカバルドンの処理が楽になります。典型的には、(メガ)フシギバナvsカバルドン→ギガドレインvsあくび→キュウコン交換vsステルスロック→かえんほうしゃ/ソーラービームvs瀕死/交換です。
+- 対メガマフォクシー+アシレーヌ: メガバンギラス+フシギバナ(敢えてメガシンカせず)
+  - このパーティではメガバンギラスとドラパルトが相手メガマフォクシーに対面で勝てるのですが、相手選出にアシレーヌが加わるとどうしてもサイクル戦になります。相手のメガマフォクシー+アシレーヌ選出(残りはドドゲザン/イダイトウ/ガブリアス/カバルドンあたり)が想定される場合は、こちらはメガバンギラス+フシギバナを選出します。相手の3体目を倒せるかつ想定対面に繋げられるポケモンをこちらの3体目として選出し、例えばドドゲザンにはエアームド、イダイトウにはドラパルト、ガブリアスにはドラパルト、カバルドンにはキュウコンと言った具合です。勝ち方としては、メガバンギラスをメガマフォクシーに後出しし、はたきおとす/いわなだれで相手交換先(主にアシレーヌ、たまにカバルドン)にダメージを蓄積していきます。そしたらこちらはフシギバナを後出しして、その後相手がメガマフォクシーを後出しして、と言うサイクル戦になります。
+- 対メガボーマンダ+カバガルン+ギルガルド/サーフゴー: キュウコン+メガバンギラス+フシギバナ
+  - 全体的に有利です。カバルドンに強く出るためにフシギバナを選出します。フシギバナはメガシンカしなくとも結構強いです。フシギバナを先発にすることで、相手の先発が何であっても対応できます。典型的なゲーム展開としては、1ターン目フシギバナvsカバルドン対面でギガドレインvsあくびとなり、2ターン目はキュウコン交換vsステルスロック、3ターン目はソーラービームvsボーマンダ交換、4ターン目はバンギラス交換vsりゅうのまい、5ターン目にれいとうビームvsじしんで、ここでメガボーマンダを倒します。後は流れるように勝てます。もし相手メガボーマンダが特殊型や両刀型の場合はこちらのメガバンギラスへの有効打が無いので相手はカバルドンに交換してきます。これはバンギラス交換時に放つ相手の技で判別できます。サイクル戦に備えて、こちらはステルスロックを撒きます。
+- 対イエッサン+オオニューラ+メガカメックス: メガバンギラス+エアームド+ドラパルト
+  - 先発メガバンギラスの役割は、相手先発イエッサンを確定1発で倒しつつ、2匹目のオオニューラにつるぎのまいの猶予を与えないことです。オオニューラにつるぎのまいをされるとこちらのパーティは崩壊します。2匹目エアームドの役割はオオニューラを確実に倒すこと、3匹目ドラパルトの役割はからをやぶるをした相手メガカメックスに対して先攻で確定1発を取ることです。勝ち筋となる流れは、メガバンギラスvsイエッサン対面→はたきおとす(確定1発)vsマジカルシャイン→イエッサン瀕死→メガバンギラスvsオオニューラ対面→じしん(不発)vsインファイト(もし相手つるぎのまいならじしんで倒せる)→メガバンギラス瀕死→エアームドvsオオニューラ対面→ブレイブバード(確定1発)vsインファイトorつるぎのまい→オオニューラ瀕死→エアームドvsメガカメックス対面→ブレイブバードvsからをやぶる→ブレイブバード(不発)vsあくのはどう→エアームド瀕死→ドラパルトvsメガカメックス→ドラゴンアローvsあくのはどう(不発)→メガカメックス瀕死で勝利、です。初手て対面で相手がオオニューラに交換してきたとしても、イエッサンはドラパルトで先攻確定1発を取れるので問題ないです。負け筋は相手のメガカメックスがからをやぶるをしなかった場合です。その場合は負けます。
+- 対イエッサン+メガカメックス: メガバンギラス+ドラパルト
+  - 相手のメガカメックスにからをやぶるをさせられるかどうかが勝敗の鍵となります。メガバンギラスへのはどうだん、ドラパルトへのあくのはどうのタイミングでもう一方へ交換することでほぼ被ダメをなくせるので、これでサイコフィールドのターンを稼ぎます。相手が痺れを切らしてからをやぶるをしてきたらこちらの勝ちです。ドラパルトはS2段階上昇の準速メガカメックス抜き調整になっているので、耐久が2段階下がったメガカメックスに先攻ドラゴンアローで確定1発を取れるようになります。もし相手にからをやぶるをさせるのが困難な場合は、ドラパルトとキュウコンの2匹がかりでメガカメックスを倒すプランを視野に入れます。相手のラスト1匹が読めるなら、3匹目にキュウコンを選出するといいかもしれません。お互いの2匹目でキュウコンvsメガカメックス対面を作ったら相手はからをやぶるをせざるを得ないので、ドラパルトがスイープする、というものです。ドラパルトで3匹目を倒せるか怪しい場合は、メガバンギラスで始めにステルスロックを撒いておくと良いかも知れません。
+- 対ゴリランダー+オオニューラ: キュウコン+エアームド
+  - キュウコンでだいちのちから→かえんほうしゃとすることでゴリランダーに勝てます。その後エアームドvsオオニューラ対面はブレイブバードで勝てます。オオニューラがキュウコン対面時につるぎのまいをしていてもエアームドは耐えますし、そもそも特性がんじょうなので結果に影響はありません。
+- 対メガジュペッタ+パーモット+イダイトウ: メガバンギラス+キュウコン+ドラパルト
+  - パーモットのさいきのいのりによりメガジュペッタを2回降臨させてみちずれで確実に倒し、最後にスカーフイダイトウで威力200おはかまいりを放つギミックパーティです。これには、上記の選出で対応できます。みちずれはされても問題なくて、最後のイダイトウをこだわりスカーフ持ちドラパルトで先攻確定1発で倒すというシンプルな解決策です。
+- 対メガアブソルZ: メガフシギバナ + エアームド + キュウコン/ドラパルト/バンギラスから1匹
+  - このパーティにとってメガアブソルZは非常に重く、メガフシギバナ/エアームドの対面状況でしか突破ができないので攻略難易度が高いです。先発にエアームドかメガフシギバナを出し、控えのポケモンにはメガアブソルにつるぎのまいをする猶予を与えない、キュウコン/ドラパルト/バンギラスからなるべく選出することになります。先発でメガフシギバナvsメガアブソルZ対面を作れればいいですが、相手の先発が別のポケモンの場合はメガフシギバナの体力を温存するために控えのポケモンと交換します。その後死に出しでメガフシギバナvsメガアブソル対面を作って攻略します。
+- 対コノヨザル: エアームド+キュウコン/ドラパルト/メガフシギバナの中から2匹以上
+  - このパーティにとってコノヨザルは非常に重く、相手が理想的に動いてきた場合に後出しから勝てるポケモンがいません。王道の勝ち方としては、ビルドアップされない立ち回りをしてエアームド対面を作ります。ビルドアップされるとラスト1匹のコノヨザルには勝てないので、先攻でダメージをまともに与えられるキュウコン+ドラパルトの働きも重要です。次点でメガフシギバナも有力です。相手コノヨザルがラストから2匹目の場合はフシギバナ対面でふんどのこぶし(威力100)vsギガドレイン(回復も考慮)で雑に計算したところ高乱数で打ち勝てます。ラスト1匹として出てくる場合は素早さで勝るキュウコン/ドラパルトで対面するのが良いので、この対面を意識して立ち回ります。
+- 対ソウブレイズ: メガバギラス必須+優先的にドラパルト/キュウコン
+  - 初手出しをメガバンギラスにし、まず初手対面での勝ち筋を狙います。相手ソウブレイズが控えだとしても、天候すなあらし状態がきあいのたすきを剥がしてくれるので、そうなればドラパルトのゴースドダイブで確定1発を狙えるようになります。対面でソウブレイズにしっかりダメージを与えられるポケモンを選出して崩しにかかります。
+- 対メガピクシー: キュウコン + 保険としてドヒドイデ/(メガ)フシギバナから1匹or(メガ)バンギラス
+  - 警戒すべきアシストパワー型メガピクシー相手には、控えにキュウコンを選出しておいて、相手のピクシーが出たらすかさずキュウコンへ交換します。こちらはわるだくみを、相手はコスモパワーを積むレースになりますが、積みレベルが勝った時点で攻撃に転じれば倒せます。対面ならば1回、後出しならば2回わるだくみを積めば良いです。このパーティではキュウコンでしか突破できないので大仕事です。相手がバトンタッチ型の場合は、キュウコンの火力に加えて、控えポケモンのどくどくでトドメを刺せるようにしておきたいです。バトンタッチ先がエスパータイプでアシストパワーを使うポケモンの場合、(メガ)バンギラスの選出も視野に入ります。
